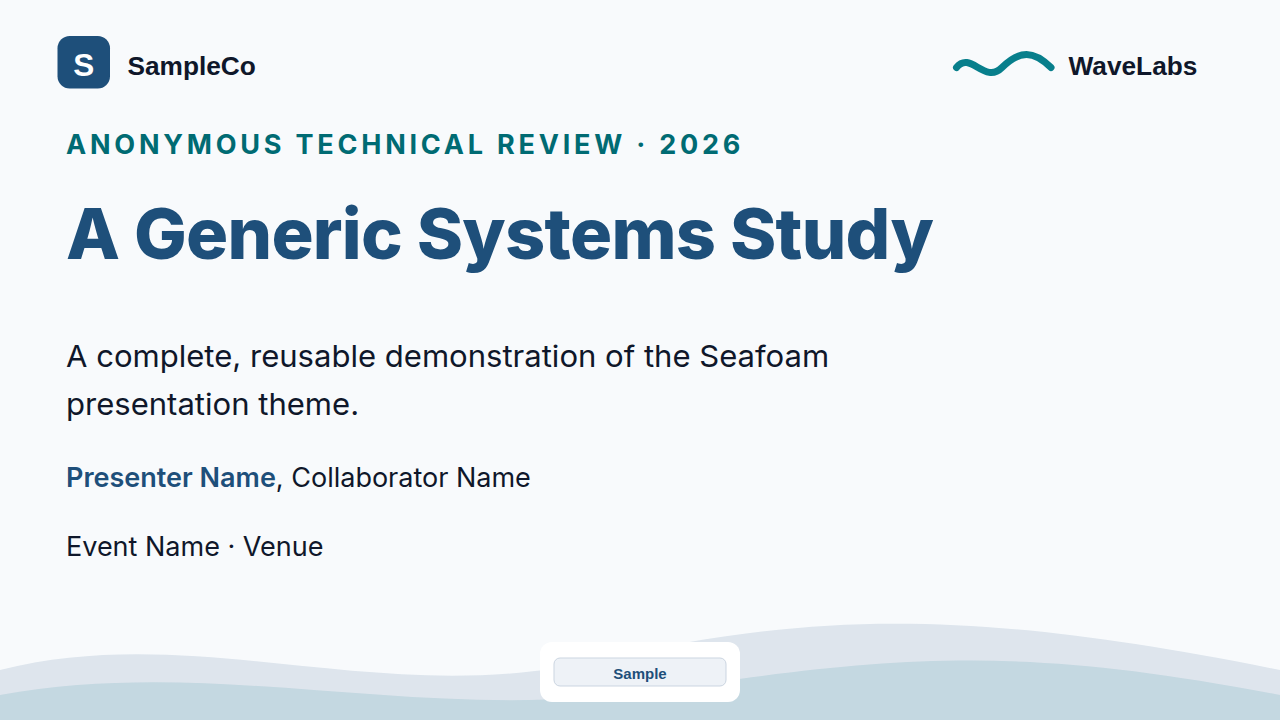
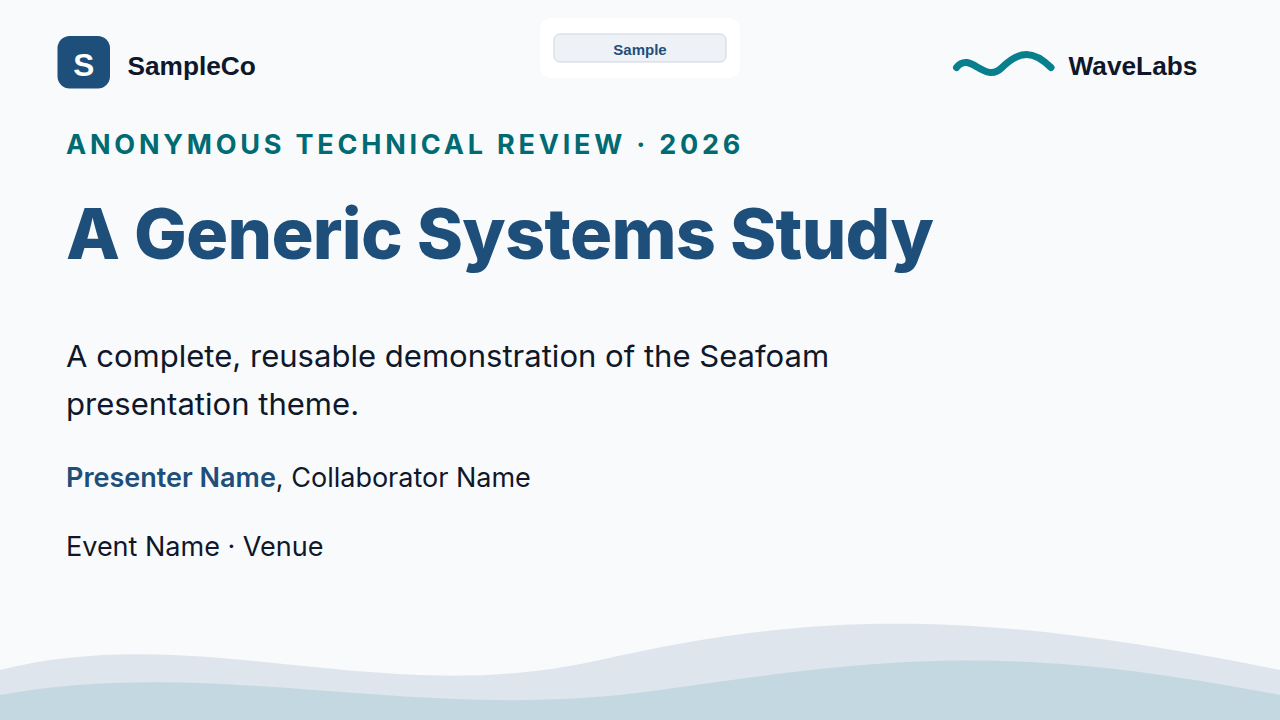
Fixes

Changed region(s): [[0.4062, 0.8861, 0.5938, 0.9778], [0.4688, 0.0611, 0.5312, 0.0917]]

diff --git a/seafoam.css b/seafoam.css
@@ -224,6 +224,8 @@ header {
   top: 0;
 }
 
+header:has(.institution-logos) { overflow: visible; }
+
 .institution-logos {
   position: absolute;
   left: 0;
@@ -610,10 +612,10 @@ section.lead .eyebrow {
 }
 
 .visual-split > div:first-child .paper-figure {
-  width: auto;
-  height: auto;
+  width: 100%;
+  height: 100%;
   max-width: 100%;
-  max-height: 100%;
+  max-height: 420px;
   box-sizing: border-box;
   padding: 5px;
   background: white;
@@ -644,8 +646,8 @@ section.lead .eyebrow {
 
 .center-logo {
   position: absolute;
-  top: auto;
-  bottom: 18px;
+  top: 18px;
+  bottom: auto;
   left: 50%;
   width: 180px;
   padding: 10px;

diff --git a/README.md b/README.md
@@ -130,8 +130,7 @@ Use a direct HTML container for institution logos. Do not wrap it in a
   class name, it is not tied to a particular organization.
 - On `lead`, the logo row sits at the bottom. Adding `title` moves larger logos
   to the top. On `closing`, the row also sits at the top.
-- `center-logo` places one white-padded mark at bottom center, or at the top on
-  `closing` slides.
+- `center-logo` places one white-padded mark at top center.
 
 ```html
 <img class="center-logo" src="assets/center.svg" alt="Center mark">
